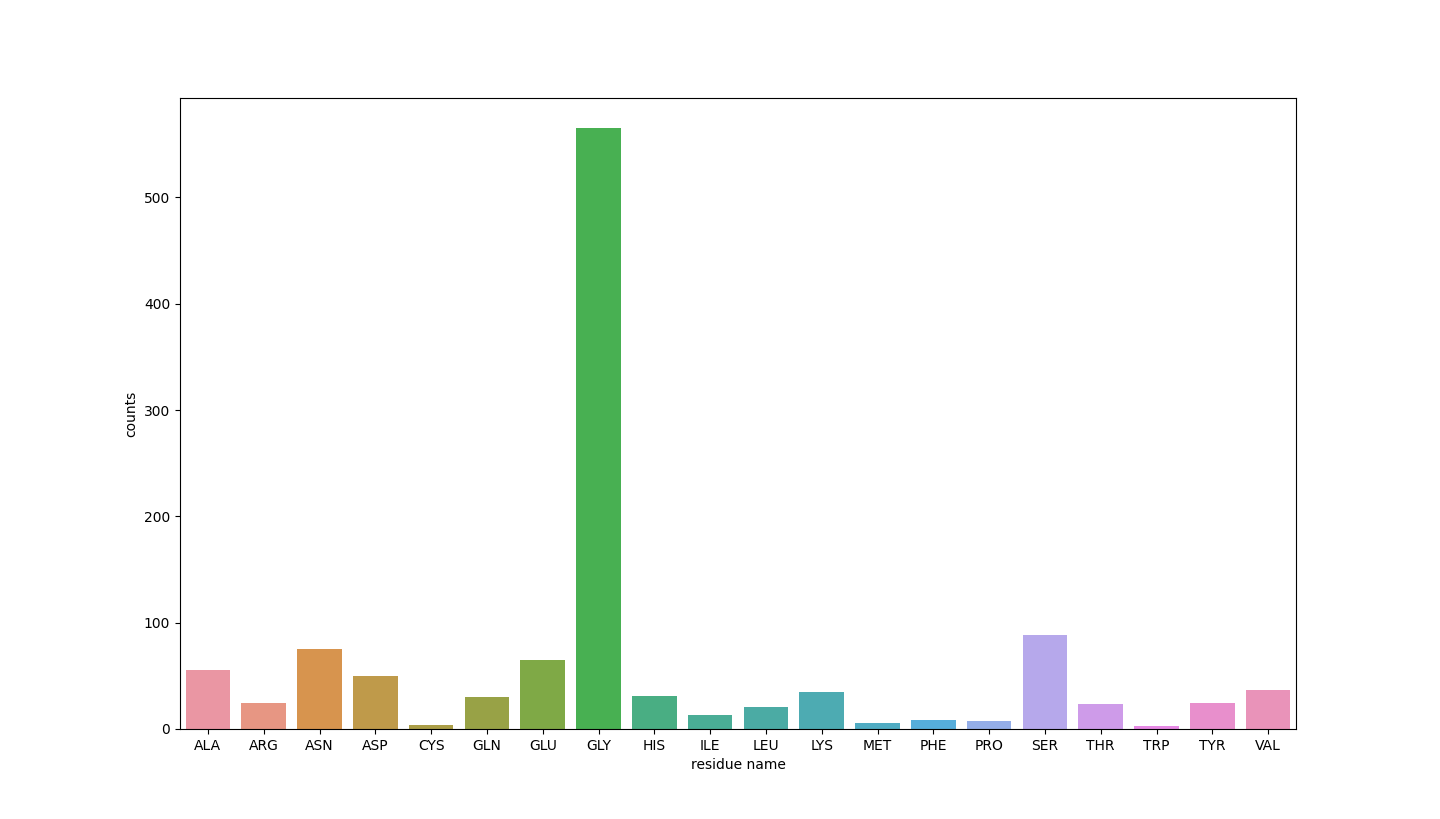
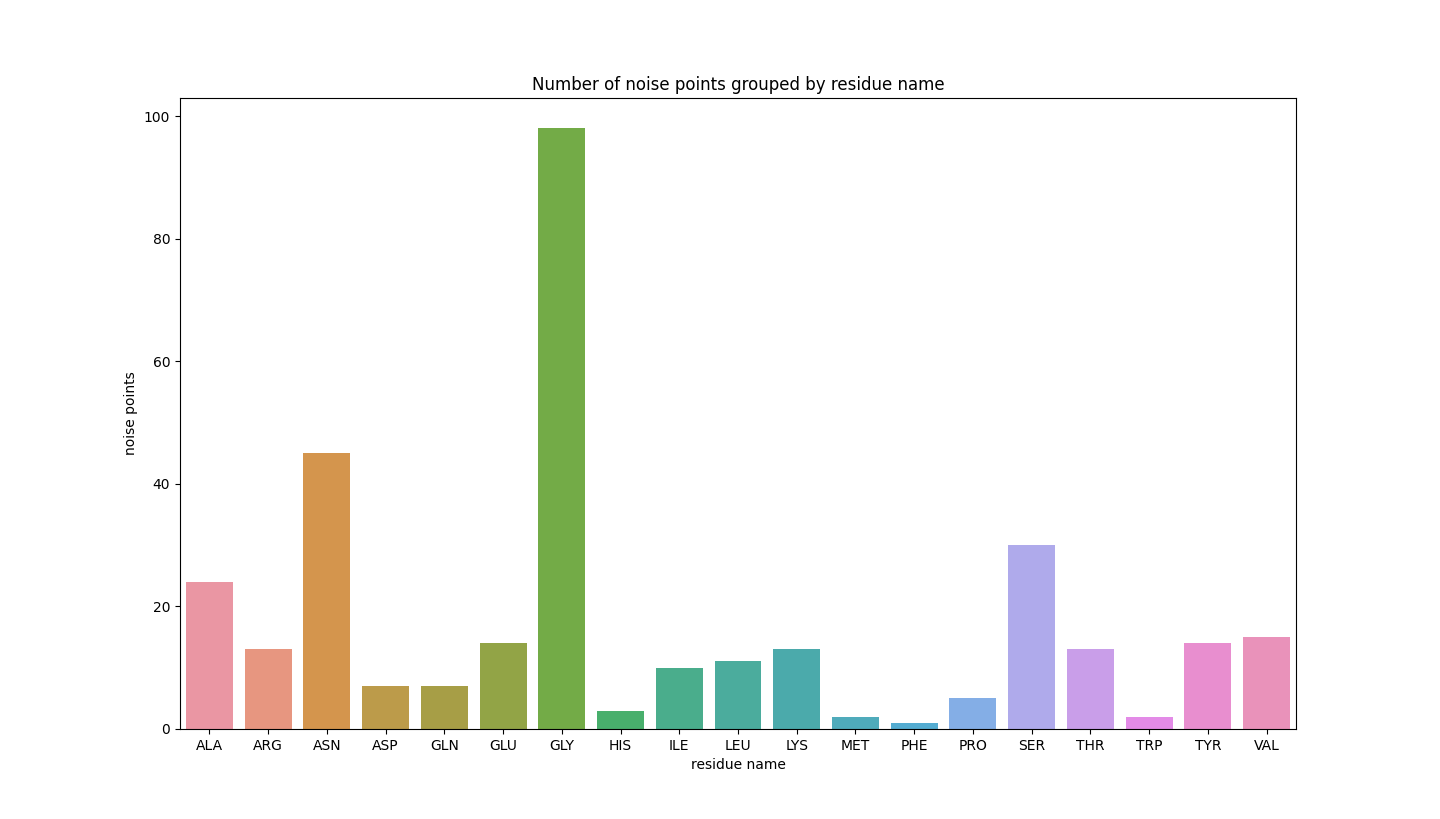
add barplot and dbscan code and expl

diff --git a/assignment3/src/dbscan/dbscan.py b/assignment3/src/dbscan/dbscan.py
@@ -18,11 +18,11 @@ import seaborn as sns
 PATH = '../../res/data_all.csv'
 PHI = "phi"
 PSI = "psi"
-RESIDUE_NAME = "GLY"
+RESIDUE_NAME = ""
 df = pd.read_csv(PATH)
 
-eps = 17.5
-min_samples=30
+eps = 19
+min_samples=42
 
 if RESIDUE_NAME:
     df = df.loc[df['residue name'] == RESIDUE_NAME]
@@ -94,10 +94,10 @@ df_noise = df[noiseMask]
 
 # DONT ASK OMG WHY IS THIS SO DIFFICULT WHEN IT IS SO NORMAL TO WANT TO DO https://stackoverflow.com/a/32801170
 # count number of each name occuring in df, create column counts to store value
-df_noise = df_noise.groupby(['residue name']).size().reset_index(name='counts')
+df_noise = df_noise.groupby(['residue name']).size().reset_index(name='noise points')
 
 plt.figure()
-sns.barplot(x=df_noise["residue name"], y=df_noise["counts"])
+sns.barplot(x=df_noise["residue name"], y=df_noise["noise points"])
 
 print(df_noise)
 
@@ -108,5 +108,6 @@ n_noise_ = list(labels).count(-1)
 print('Estimated number of clusters: %d' % n_clusters_)
 print('Estimated number of noise points: %d' % n_noise_)
 
+plt.title("Number of noise points grouped by residue name")
 
 plt.show()

diff --git a/assignment3/src/dbscan/dbscan-eps.py b/assignment3/src/dbscan/dbscan-eps.py
@@ -11,7 +11,7 @@ PSI = "psi"
 RESIDUE_NAME = ""
 df = pd.read_csv(PATH)
 
-n_neighbors=42
+n_neighbors=500
 
 if RESIDUE_NAME:
     df = df.loc[df['residue name'] == RESIDUE_NAME]

diff --git a/assignment3/report.md b/assignment3/report.md
@@ -60,7 +60,7 @@ Use the K-means clustering method to cluster the phi and psi angle combinations 
 a. Experiment with different values of K. Suggest an appropriate value of K for this task and motivate this choice.
 -->
 
-By trying out different k-values we notice that k=3 or k=4 have the most reasonable clusters. 
+By trying out different k-values we notice that k=3 or k=4 have the most reasonable clusters.
 
 With a k < 3, the clusters does not explain the variation. For example, in `k = 2` both clusters range over all possible phi values and includes the interval `phi E (-30,20)` which has very few datapoints within it. Signalling that perhaps this divide should not be included in a cluster. For example, the blue centroid is seemingly the closest centroid for 4 different clusters.
 
@@ -114,9 +114,9 @@ We remove a random 25% of the points and examine if the labeling remains similar
     <p align="center">Figure 5: The original clusters compared to the clusters created when removing a random 25% of the points. <p>
 <p>
 
-In the figures above we see that the shapes of the clusters almost do not change at all. There are minor changes but it is still the same clusters. This indicates that the clusters are stable. 
+In the figures above we see that the shapes of the clusters almost do not change at all. There are minor changes but it is still the same clusters. This indicates that the clusters are stable.
 
-We also notice that the colors of the clusters change in different runs. This does however not mean that the clusters are unstable since the initial centroids are different each time. Suppose that points nearest to “centre 1” are shown in blue, those nearest “centre 2” are shown in green and those nearest “centre 3” are shown in red. Which of the clusters we have found happens to be blue might change from one run to the next since the centres start off in different places and end up in different places, “centre 1” from one run might end up near to where “centre 2” ended up in another run. 
+We also notice that the colors of the clusters change in different runs. This does however not mean that the clusters are unstable since the initial centroids are different each time. Suppose that points nearest to “centre 1” are shown in blue, those nearest “centre 2” are shown in green and those nearest “centre 3” are shown in red. Which of the clusters we have found happens to be blue might change from one run to the next since the centres start off in different places and end up in different places, “centre 1” from one run might end up near to where “centre 2” ended up in another run.
 
 So, we always find roughly the same clusters when performing k-means on different subsets of the dataset and hence we deem these clusters to be stable.s
 
@@ -128,11 +128,11 @@ So, we always find roughly the same clusters when performing k-means on differen
 c. Do the clusters found in part (a) seem reasonable?
 -->
 
-By looking at the figure below we notice that there are some aspects of the clustering that does not seem very reasonable. For example, the bottom left points, see label 1 in figure below, should probably not be in the blue set, but rather in the red. This is because psi=-180  is the same as psi=180 and hence the points in the bottom left should actually be in the red cluster as they are more connected to that cluster. 
+By looking at the figure below we notice that there are some aspects of the clustering that does not seem very reasonable. For example, the bottom left points, see label 1 in figure below, should probably not be in the blue set, but rather in the red. This is because psi=-180 is the same as psi=180 and hence the points in the bottom left should actually be in the red cluster as they are more connected to that cluster.
 
-Furthermore, it seems unreasonable for the green cluster to be so scattered, see label 2 in figure below. It would probably be more reasonable if it was divided into two clusters. The points at the top and bottom in one cluster, and the points in the middle as another. 
+Furthermore, it seems unreasonable for the green cluster to be so scattered, see label 2 in figure below. It would probably be more reasonable if it was divided into two clusters. The points at the top and bottom in one cluster, and the points in the middle as another.
 
-One could also argue that the points in the absolute bottom right corner, see label 3 in figure below (and possible some in the top right corner) should belong to the red set, as phi=-180 is the same as phi=180 (and again psi=-180  is the same as psi=180).
+One could also argue that the points in the absolute bottom right corner, see label 3 in figure below (and possible some in the top right corner) should belong to the red set, as phi=-180 is the same as phi=180 (and again psi=-180 is the same as psi=180).
 
 <p align="center">
     <img src="fig/kmeans-3-resonable.png">
@@ -167,6 +167,7 @@ We reason that due to the periodic attributes we can show negative values as pos
 df[PHI] = df[PHI].apply(lambda phi: phi + 360 if phi < 0 else phi)
 df[PSI] = df[PSI].apply(lambda psi: psi + 360 if psi < -110 else psi)
 ```
+
 What happens to the elbow curve, should we select new value for k? Lets see by comparing the two elbows curve, the elbow curve to the right is the one with shifted values.
 
 <p align="center">
@@ -182,7 +183,6 @@ We plot the datapoints again using kmeans with shifted axises and get a visually
     <img src="fig/kmeans-3-shift.png">
     <p align="center">Figure: <p>
 <p>
-
 
 ## _Question 3_
 
@@ -206,31 +206,27 @@ By looking at the heatmaps below we try to reason:
 
 ### i - the choice of the minimum number of samples in the neighbourhood for a point to be considered as a core point
 
-Criteria when we chose the number:
+_[To preface, we are not entirely sure how to motivate this number, we have googled quite a bit but with no luck]_
 
-* Testing values
-* Do not form clusters of noise,
+Things we had in mind when we chose the number:
 
-By extensive googling, we gather that:
+- Do not form clusters of noise, hence we do not want to choose a to low minPts.
+- The value should be picked by someone with domain knowledge.
+- Given an arbitrarily chosen epsilon, we wanted to ensure that clusters we could visually motivate would be classified as such, and also that potential "bridges" across subsets of clusters.
 
-* The value should be picked by someone with domain knowledge
-
-
-We did not really have anything to go on when it came to this, we decided to test different values and ended up choosing 42. 
-
+Again, we did not really have any foundation when it came to this, we decided to test different values and ended up choosing 42. We decided that we would pick a suitable epsilon based on the value of minPts. It was noted online that this was an acceptable approach and we explore choosing this value more in depth in part d.
 
 ### ii - the choice of the maximum distance between two samples belonging to the same neighbourhood (“eps” or “epsilon”).
 
-
-The following line of code uses the algorithm explained in this [paper](https://iopscience.iop.org/article/10.1088/1755-1315/31/1/012012/pdf), via this [medium article](https://towardsdatascience.com/machine-learning-clustering-dbscan-determine-the-optimal-value-for-epsilon-eps-python-example-3100091cfbc), but **we changed** so that it takes the largest distance within in all k neighbours. If it takes the nearest it will get identical results for all `k>0`.
+The following lines of code uses the algorithm explained in this [paper](https://iopscience.iop.org/article/10.1088/1755-1315/31/1/012012/pdf), via this [medium article](https://towardsdatascience.com/machine-learning-clustering-dbscan-determine-the-optimal-value-for-epsilon-eps-python-example-3100091cfbc), but **we changed** so that it takes the largest distance within in all k neighbours. If it takes the nearest it will get identical results for all `k>0`.
 
 We found that this methodology worked well, and intuitively we motivate the adjustment in by the following statements:
 
-* We want to have core points within clusters, given a sufficiently dense cluster and value of `k` it does not really matter if the value of epsilon increases.
+- We want to have core points within clusters, given a sufficiently dense cluster and value of `k` it does not really matter if the value of epsilon increases.
 
-* When the largest distance to the "k":th neighbor changest the most, it is possible that we encounter noise. So by picking the value of largest distance, we have made a distinction between noise and clusters that is reasonable.
+- When the largest distance to the "k":th neighbor changest the most, it is possible that we encounter noise. So by picking the value of largest distance, we have made a distinction between noise and clusters that is reasonable.
 
-* In contrary to the article (from medium) in which we found the algorithm, it performs differently based on the value of kmeans.
+- In contrary to the article (from medium) in which we found the algorithm, it performs differently based on the value of kmeans.
 
 Here is how it is implemented:
 
@@ -248,32 +244,78 @@ distances = np.sort(distances, axis=0)
 # For each node, pick out the distance to the neighbor (out of closest n_neighbors) that is furthest away.
 distances = distances[:, -1]
 
-# find index of largest difference (make a distinction of 28500,
+# find index of largest difference (make a distinction of 28750,
 # since the plot looks exponental and we're only interested in "elbow" area.)
-index = np.diff(distances[0:28500]).argmax()
+index = np.diff(distances[0:28750]).argmax()
 ```
 
-Using `n_neighbors=42`, we get an epsilon of `17`, which we will use for the remainder of the analysis.
+Using `n_neighbors=42`, we get an epsilon of `19`, which we will use for the remainder of the analysis.
 
-It is possible to argue our tweak to the algorithm, as ... lowest is relevant, core points can grow very large in numbers, ... 
+It is possible to argue our tweak to the algorithm, as ... lowest is relevant, core points can grow very large in numbers, ...
 
-## b - robert
+# TODO: FIX THIS
+
+## b - Highlight clusters found using DBSCAN, Barplot and outliers.
 
 <!--b. Highlight the clusters found using DBSCAN and any outliers in a scatter plot. How many outliers are found? Plot a bar chart to show which amino acid residue types are most frequently outliers.-->
 
-### scatterplot dbscan
+### Scatterplot DBSCAN
+
+Our code for creating a DBSCAN make use of masks.
+
+```python
+# create array same size as dataset, init as all false
+core_samples_mask = np.zeros_like(db.labels_, dtype=bool)
+# Take array and make boolean true for indices of core nodes
+core_samples_mask[db.core_sample_indices_] = True
+# ...
+for u_label, color in zip(unique_labels, colors):
+    # u_label is -1 if not part of cluster, ie. noise
+    isNoise = u_label == -1
+
+    # make unassigned datapoints grey
+    if isNoise:
+        color = "grey"
+        noiseMask = (labels == u_label)
+
+    # create mask for labels, used for selecting which datapoints to plot
+    class_member_mask = (labels == u_label)
+    # create mask for non core datapoints within current loop's members
+    non_core = X[class_member_mask & ~core_samples_mask]
+    # create mask for core datapoints within current loop's members
+    core = X[class_member_mask & core_samples_mask]
+
+    # do regular scatterplots ...
+```
 
 <p align="center">
     <img src="fig/dbscan-19-42.png"> 
-    <p align="center">DBSCAN 19 42<p>
+    <p align="center">Figure: DBSCAN with epsilon=19, minPts=42<p>
 <p>
 
-### barplot
+### Barplot of noise
+
+Using the same code as above, we use the `noisemask` and apply it to the dataframe. Then we count the occurence of each residue name and plot accordingly.
+
+```python
+# apply noisemask to dataframe
+df_noise = df[noiseMask]
+# count number of each name occuring in df, create column counts to store value
+df_noise = df_noise
+                   .groupby(['residue name'])
+                   .size()
+                   .reset_index(name='counts')
+
+#create barplot
+sns.barplot(x=df_noise["residue name"], y=df_noise["counts"])
+```
 
 <p align="center">
     <img src="fig/barplot.png"> 
-    <p align="center">Barplot<p>
+    <p align="center">Figure: Barplot of noise of above DBSCAN<p>
 <p>
+
+In total we have `327` noise points (outliers).
 
 ## c - Compare DBSCAN and K-means
 
@@ -285,9 +327,6 @@ But even though they have the same amount of clusters, the clusters are very dif
 
 Furthermore we can see that the clusters created by DBSCAN are more compact clusters as it leaves outliers out of clusters. K-means at the other hand puts every node into clusters even though they sometimes clearly should not be in a cluster.
 
-
-<!-- Det läser lite otydligt, menar du totalt fyra kluster? 
-Bättre?--->
 An interesting note is that if we had done the clustering by hand, we would probably have chosen a mixture between K-means and DBSCAN. That is, we would have divided both the points to the rigth and the ones to left into two clusters, in total four clusters.
 
 <p align="center">
@@ -352,13 +391,12 @@ Now for a more analytical analysis, we find suitable k using elbow curve and fin
 <p>
 <!-- align="center">Elbow curve for residue type PRO, we find the largest inertia on k = 3, altough 6 is a value of interest -->
 
-Comparatively little noise is noted when looking at the PRO dataset, verified by our DBSCAN below. We find that by using DBSCAN with reasonable chosen values of `epsilon` and `min_samples` provides one or two clusters. 
+Comparatively little noise is noted when looking at the PRO dataset, verified by our DBSCAN below. We find that by using DBSCAN with reasonable chosen values of `epsilon` and `min_samples` provides one or two clusters.
 
 <p align="center">
     <img src="fig/q4/dbscan-PRO-1.png" width="45%">    
     <img src="fig/q4/dbscan-PRO.png" width="45%">
 <p>
-
 
 ### GLY
 
@@ -369,8 +407,7 @@ First we look at a scatterplot highlighting the amino acids with the GLY residue
     <p align="center">Figure: <p>
 <p>
 
-The scatterplot shows how the distribution of GLY-points is quite similar to the distribution of all points. This indicates that the clusters of GLY might be quite similar to the general clusters. The GLY-points are quite scattered which indicates that amino acids with residue name GLY are not similar in characteristic and therefore can be difficult to label with precision.
-
+The scatterplot shows how the distribution of GLY-points is quite similar to the distribution of all points. This indicates that the clusters of GLY might be quite similar to the general clusters. The GLY-points are quite scattered,with a lot of noise, which indicates that amino acids with residue name GLY are not similar in characteristic and therefore can be difficult to label with precision.
 
 In order to compare the clusters, we find suitable k using elbow curve and find that GLY has a `k = 4`.
 
@@ -379,11 +416,11 @@ In order to compare the clusters, we find suitable k using elbow curve and find 
     <img src="fig/q4/kmeans-GLY.png" width="45%"> 
 <p>
 
-We find that by using DBSCAN with reasonable chosen values of `epsilon` and `min_samples` provides three or four clusters. 
+We find that by using DBSCAN with reasonable chosen values of `epsilon` and `min_samples` provides three or four clusters.
 
 <p align="center">
     <img src="fig/q4/dbscan-GLY.png" width="45%">  
     <img src="fig/q4/dbscan-GLY-4.png" width="45%">  
 <p>
 
-In this case, we would argue that dbscan more accurately finds 3 clusters than kmeans did. The GLY dataset is very similar to the entire dataset as visualised in the figure below.
+In this case, we would argue that dbscan more accurately finds 3 clusters than kmeans did.
